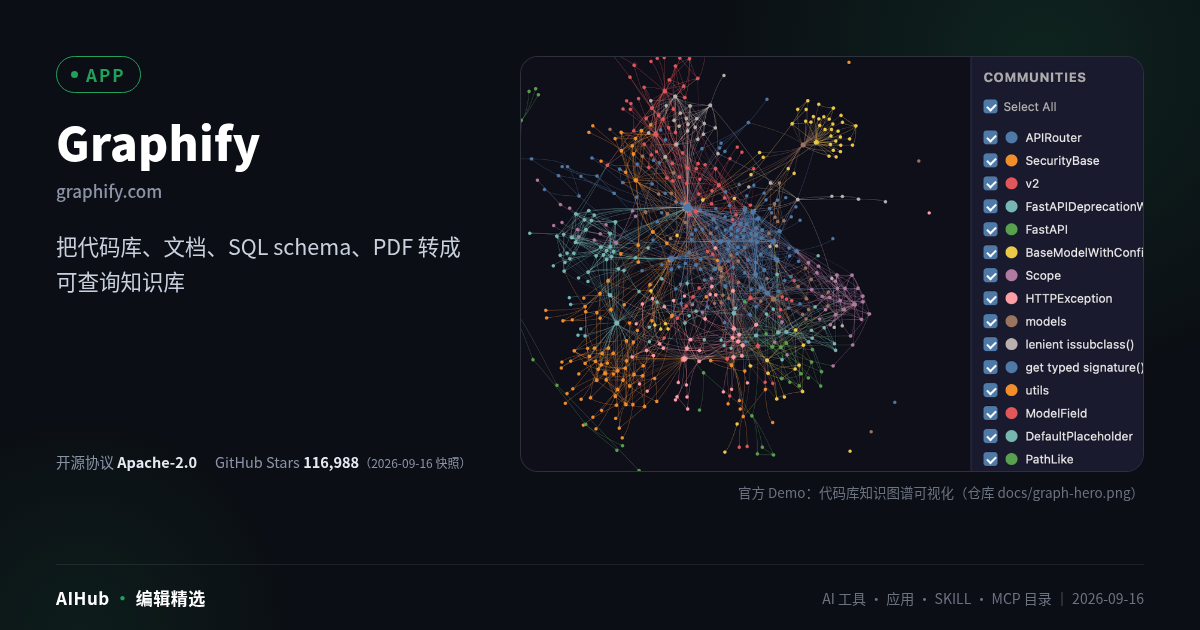
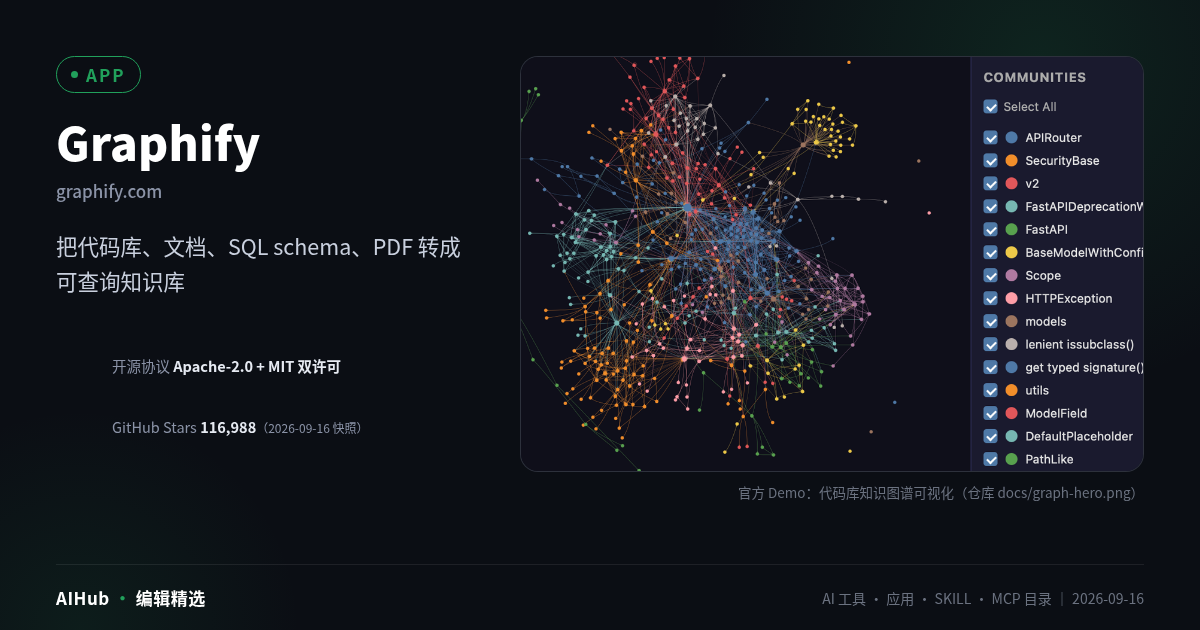
换装收口裁定后的 3 张卡面（openclaw MIT / graphify 双许可 / serena 遮挡修正），素材包 SHA256 7d8eb2b6

Changed region(s): [[0.0308, 0.7238, 0.4008, 0.754], [0.0925, 0.6635, 0.3083, 0.6937], [0.0925, 0.573, 0.2775, 0.6032]]

diff --git a/docs/design/media-src/ruyi-147/cards/serena.html b/docs/design/media-src/ruyi-147/cards/serena.html
@@ -18,6 +18,7 @@ h1 { font-size:46px; line-height:1.15; font-weight:800; margin-top:22px; letter-
 .domain { font-size:17px; color:#8B93A7; margin-top:10px; font-weight:500; }
 .tagline { font-size:21.5px; line-height:1.62; color:#C9D0DE; margin-top:26px; font-weight:400; }
 .meta { margin-top:auto; display:flex; gap:18px; font-size:14.5px; color:#8B93A7; white-space:nowrap; }
+.meta.wrap { flex-wrap:wrap; row-gap:6px; }
 .meta b { color:#E6EAF2; font-weight:600; }
 .meta small { font-size:11.5px; }
 .right { flex:1; position:relative; }
@@ -41,7 +42,7 @@ h1 { font-size:46px; line-height:1.15; font-weight:800; margin-top:22px; letter-
     <h1>serena</h1>
     <div class="domain">oraios.github.io/serena</div>
     <div class="tagline">为编码 agent 提供语义级代码检索与编辑能力</div>
-    <div class="meta"><span>开源协议 <b>GPL-3.0+</b>（SolidLSP 为 MIT）</span><span>GitHub Stars <b>29,399</b><span style="font-size:12px">（2026-09-16 快照）</span></span></div>
+    <div class="meta wrap"><span>开源协议 <b>GPL-3.0+</b>（SolidLSP 为 MIT）</span><span>GitHub Stars <b>29,399</b><span style="font-size:12px">（2026-09-16 快照）</span></span></div>
   </div>
   <div class="right">
     <div class="vis"><img class="contain" src="file:///home/guxy/multica_workspaces/ruyigongfan-018667473993/ruyi-147-42342bc3c27b/workdir/ruyi147_design/raw/serena_block_diagram.svg"></div>

diff --git a/docs/design/media-src/ruyi-147/cards/openclaw.html b/docs/design/media-src/ruyi-147/cards/openclaw.html
@@ -18,6 +18,7 @@ h1 { font-size:46px; line-height:1.15; font-weight:800; margin-top:22px; letter-
 .domain { font-size:17px; color:#8B93A7; margin-top:10px; font-weight:500; }
 .tagline { font-size:21.5px; line-height:1.62; color:#C9D0DE; margin-top:26px; font-weight:400; }
 .meta { margin-top:auto; display:flex; gap:18px; font-size:14.5px; color:#8B93A7; white-space:nowrap; }
+.meta.wrap { flex-wrap:wrap; row-gap:6px; }
 .meta b { color:#E6EAF2; font-weight:600; }
 .meta small { font-size:11.5px; }
 .right { flex:1; position:relative; }
@@ -41,7 +42,7 @@ h1 { font-size:46px; line-height:1.15; font-weight:800; margin-top:22px; letter-
     <h1>OpenClaw</h1>
     <div class="domain">openclaw.ai</div>
     <div class="tagline">「真正替你干活」的开源个人 AI 助理，跨 OS/平台执行真实任务</div>
-    <div class="meta"><span>开源协议 <b>自定义</b>（细节未知）</span><span>GitHub Stars <b>389,766</b><span style="font-size:12px">（2026-09-16 快照）</span></span></div>
+    <div class="meta"><span>开源协议 <b>MIT</b></span><span>GitHub Stars <b>389,766</b><span style="font-size:12px">（2026-09-16 快照）</span></span></div>
   </div>
   <div class="right">
     <div class="vis"><img class="contain-dark" src="file:///home/guxy/multica_workspaces/ruyigongfan-018667473993/ruyi-147-42342bc3c27b/workdir/ruyi147_design/raw/openclaw_banner_dark.png"></div>

diff --git a/docs/design/media-src/ruyi-147/cards/graphify.html b/docs/design/media-src/ruyi-147/cards/graphify.html
@@ -18,6 +18,7 @@ h1 { font-size:46px; line-height:1.15; font-weight:800; margin-top:22px; letter-
 .domain { font-size:17px; color:#8B93A7; margin-top:10px; font-weight:500; }
 .tagline { font-size:21.5px; line-height:1.62; color:#C9D0DE; margin-top:26px; font-weight:400; }
 .meta { margin-top:auto; display:flex; gap:18px; font-size:14.5px; color:#8B93A7; white-space:nowrap; }
+.meta.wrap { flex-wrap:wrap; row-gap:6px; }
 .meta b { color:#E6EAF2; font-weight:600; }
 .meta small { font-size:11.5px; }
 .right { flex:1; position:relative; }
@@ -41,7 +42,7 @@ h1 { font-size:46px; line-height:1.15; font-weight:800; margin-top:22px; letter-
     <h1>Graphify</h1>
     <div class="domain">graphify.com</div>
     <div class="tagline">把代码库、文档、SQL schema、PDF 转成可查询知识库</div>
-    <div class="meta"><span>开源协议 <b>Apache-2.0</b></span><span>GitHub Stars <b>116,988</b><span style="font-size:12px">（2026-09-16 快照）</span></span></div>
+    <div class="meta wrap"><span>开源协议 <b>Apache-2.0 + MIT 双许可</b></span><span>GitHub Stars <b>116,988</b><span style="font-size:12px">（2026-09-16 快照）</span></span></div>
   </div>
   <div class="right">
     <div class="vis"><img class="cover" src="file:///home/guxy/multica_workspaces/ruyigongfan-018667473993/ruyi-147-42342bc3c27b/workdir/ruyi147_design/raw/graphify_hero.png"></div>

diff --git a/docs/design/media-src/ruyi-147/gen_cards.py b/docs/design/media-src/ruyi-147/gen_cards.py
@@ -15,7 +15,7 @@ SNAP = "2026-09-16"
 PRODUCTS = [
     dict(slug="openclaw", name="OpenClaw", type="APP", color="#E04030",
          tagline="「真正替你干活」的开源个人 AI 助理，跨 OS/平台执行真实任务",
-         license="自定义", license_note="（细节未知）", stars="389,766", domain="openclaw.ai",
+         license="MIT", license_note="", stars="389,766", domain="openclaw.ai",
          visual=("openclaw_banner_dark.png", "contain-dark", "#050507", "官方品牌横幅（仓库 docs/assets/openclaw-banner-dark.png）")),
     dict(slug="pi", name="pi", type="APP", color="#6C9BD2",
          tagline="统一 LLM API、agent 循环、TUI 与编码 agent CLI 的轻量工具箱",
@@ -27,11 +27,13 @@ PRODUCTS = [
          visual=("og_texttocad.png", "contain-dark", "#0F0E17", "官网主视觉（texttocad.dev）")),
     dict(slug="graphify", name="Graphify", type="APP", color="#21A05B",
          tagline="把代码库、文档、SQL schema、PDF 转成可查询知识库",
-         license="Apache-2.0", license_note="", stars="116,988", domain="graphify.com",
+         license="Apache-2.0 + MIT 双许可", license_note="", stars="116,988", domain="graphify.com",
+         meta_wrap=True,
          visual=("graphify_hero.png", "cover", "#101521", "官方 Demo：代码库知识图谱可视化（仓库 docs/graph-hero.png）")),
     dict(slug="serena", name="serena", type="MCP", color="#DFA050",
          tagline="为编码 agent 提供语义级代码检索与编辑能力",
          license="GPL-3.0+", license_note="（SolidLSP 为 MIT）", stars="29,399", domain="oraios.github.io/serena",
+         meta_wrap=True,
          visual=("serena_block_diagram.svg", "contain", "#FFFFFF", "官方架构图（仓库 resources/serena-block-diagram.svg）")),
     dict(slug="openresearch", name="OpenResearch", type="APP", color="#A22C3C",
          tagline="把编码 agent 变成研究 agent，自动检索与产出研究材料",
@@ -61,6 +63,7 @@ h1 {{ font-size:46px; line-height:1.15; font-weight:800; margin-top:22px; letter
 .domain {{ font-size:17px; color:#8B93A7; margin-top:10px; font-weight:500; }}
 .tagline {{ font-size:21.5px; line-height:1.62; color:#C9D0DE; margin-top:26px; font-weight:400; }}
 .meta {{ margin-top:auto; display:flex; gap:18px; font-size:14.5px; color:#8B93A7; white-space:nowrap; }}
+.meta.wrap {{ flex-wrap:wrap; row-gap:6px; }}
 .meta b {{ color:#E6EAF2; font-weight:600; }}
 .meta small {{ font-size:11.5px; }}
 .right {{ flex:1; position:relative; }}
@@ -84,7 +87,7 @@ h1 {{ font-size:46px; line-height:1.15; font-weight:800; margin-top:22px; letter
     <h1>{name}</h1>
     <div class="domain">{domain}</div>
     <div class="tagline">{tagline}</div>
-    <div class="meta"><span>开源协议 <b>{license}</b>{license_note}</span><span>GitHub Stars <b>{stars}</b><span style="font-size:12px">（{snap} 快照）</span></span></div>
+    <div class="meta{metawrap}"><span>开源协议 <b>{license}</b>{license_note}</span><span>GitHub Stars <b>{stars}</b><span style="font-size:12px">（{snap} 快照）</span></span></div>
   </div>
   <div class="right">
     <div class="vis">{imgtag}</div>
@@ -110,6 +113,7 @@ def build(p):
     html = TPL.format(color=p["color"], typ=TYPE_LABEL[p["type"]], name=p["name"],
                       domain=p["domain"], tagline=p["tagline"], license=p["license"],
                       license_note=p.get("license_note", ""), stars=p["stars"],
+                      metawrap=" wrap" if p.get("meta_wrap") else "",
                       snap=SNAP, imgtag=imgtag, cap=cap, visbg=visbg, opos=opos)
     hp = OUT / f"{p['slug']}.html"
     hp.write_text(html, encoding="utf-8")

diff --git a/docs/design/media-src/ruyi-147/SOURCES.md b/docs/design/media-src/ruyi-147/SOURCES.md
@@ -21,10 +21,12 @@
 | 5 | serena | 官方架构图（AI Client ↔ MCP Server ↔ Language Intelligence/SolidLSP） | GitHub 仓库 `oraios/serena` resources/serena-block-diagram.svg | 官方矢量架构图，原样嵌入（白底 contain）；与 VoiceMem 期同类用法 |
 | 6 | OpenResearch | 官网首页实景（Autoresearch on your machine + 实验面板） | `openresearch.sh` 首屏截图（无头 Chromium，2026-09-16） | 官方站点实景截图；复现命令：`headless_shell --screenshot --window-size=1440,1000 https://openresearch.sh`，截图中「复制代码」为站点自带中文 UI |
 
-## 设计阶段补充核实（与报批基线的关系）
+## 设计阶段补充核实（含 2026-09-18 收口裁定更新）
 
-- **serena 许可证**：报批基线为「许可证自定义（细节未知）」。设计采集中经官方 README 徽章与 LICENSE 文件核实为**按组件许可：SolidLSP 为 MIT，Serena 应用主体为 GPL-3.0-or-later**。卡面标注「GPL-3.0+（SolidLSP 为 MIT）」；已在本期交付评论中向白小巡提出基线补充，请文案侧同步采用。
-- **OpenClaw 许可证**：GitHub API license 字段为 NOASSERTION（自定义），与基线「自定义（细节未知）」一致，卡面标注「自定义（细节未知）」。
+- **OpenClaw 许可证（2026-09-18 更正为 MIT）**：初版按报批基线标「自定义（细节未知）」；经仓库 LICENSE 文件（「MIT License, Copyright (c) 2026 OpenClaw Foundation」）与 README License 章节核实为 **MIT**（白小巡收口裁定，本设计同日独立复核一致）。卡面已改标「MIT」。
+- **Graphify 许可证（2026-09-18 更正为双许可）**：经 v8 根目录核实同时存在 LICENSE（Apache 2.0）与 LICENSE-MIT（MIT）两个文件（白小巡收口裁定，本设计同日独立复核一致）。卡面已改标「Apache-2.0 + MIT 双许可」。
+- **serena 许可证（口径经收口确认）**：报批基线为「许可证自定义（细节未知）」。经官方 README 徽章与 LICENSE 文件核实为**按组件许可：SolidLSP 为 MIT，Serena 应用主体为 GPL-3.0-or-later**。卡面标注「GPL-3.0+（SolidLSP 为 MIT）」，收口复核确认口径正确、维持不变。
+- **版式微调（2026-09-18）**：底部 meta 行启用 flex 换行（仅 serena、graphify 两卡），消除 serena 快照日期被右侧白底架构图边缘遮挡的问题；graphify 许可证文字加长后同源风险一并预防。其余 4 卡版式与初版完全一致。
 - **OpenResearch 官网**：GitHub API homepage 字段为 `openresearch.sh`（属报批基线证据源「GitHub API 仓库数据」范围），卡面域名采用 openresearch.sh；pi 无官网字段，卡面域名沿用基线官方链接 github.com/earendil-works/pi。
 - 主题色取自各产品官方视觉：OpenClaw 红 #E04030、pi 蓝 #6C9BD2、text-to-cad 紫 #A78BFA、Graphify 绿 #21A05B、serena 橙 #DFA050、OpenResearch 绯红 #A22C3C。
 
